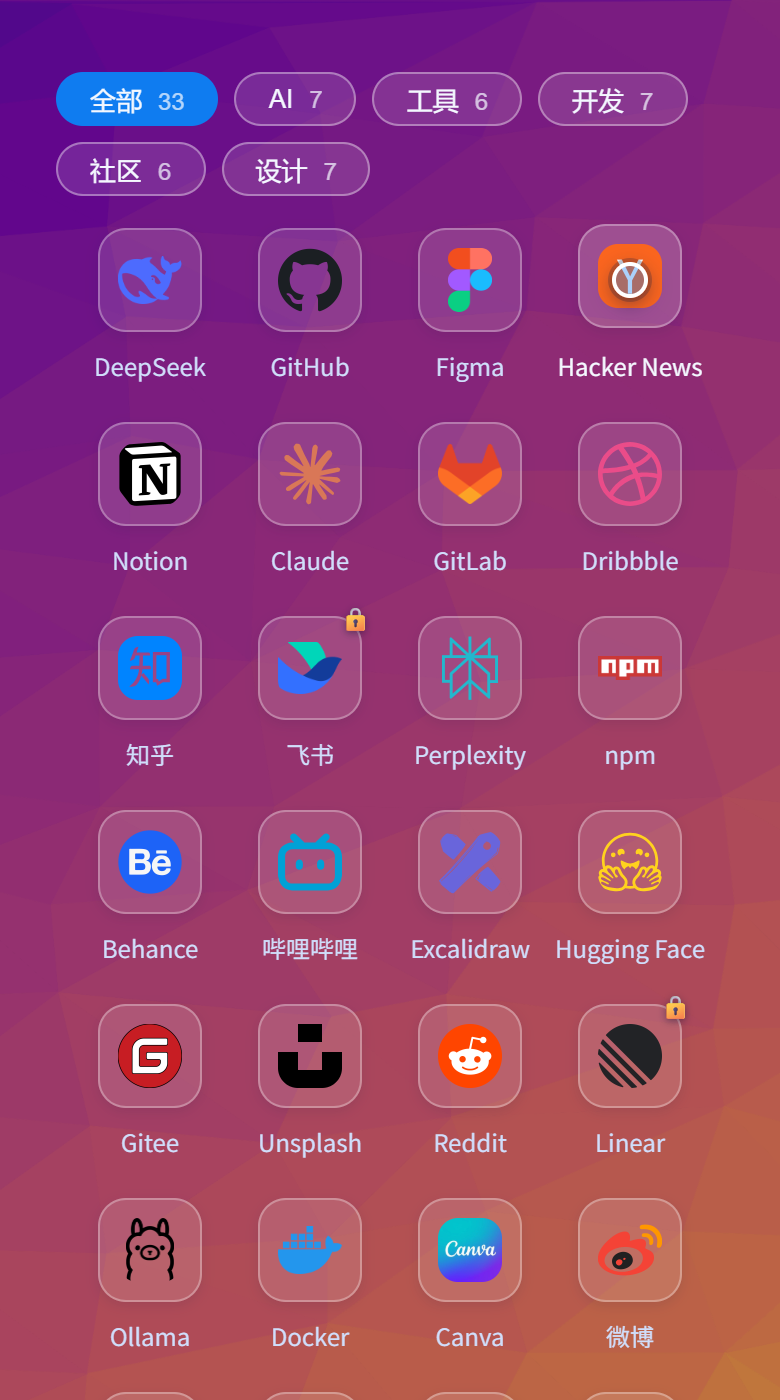
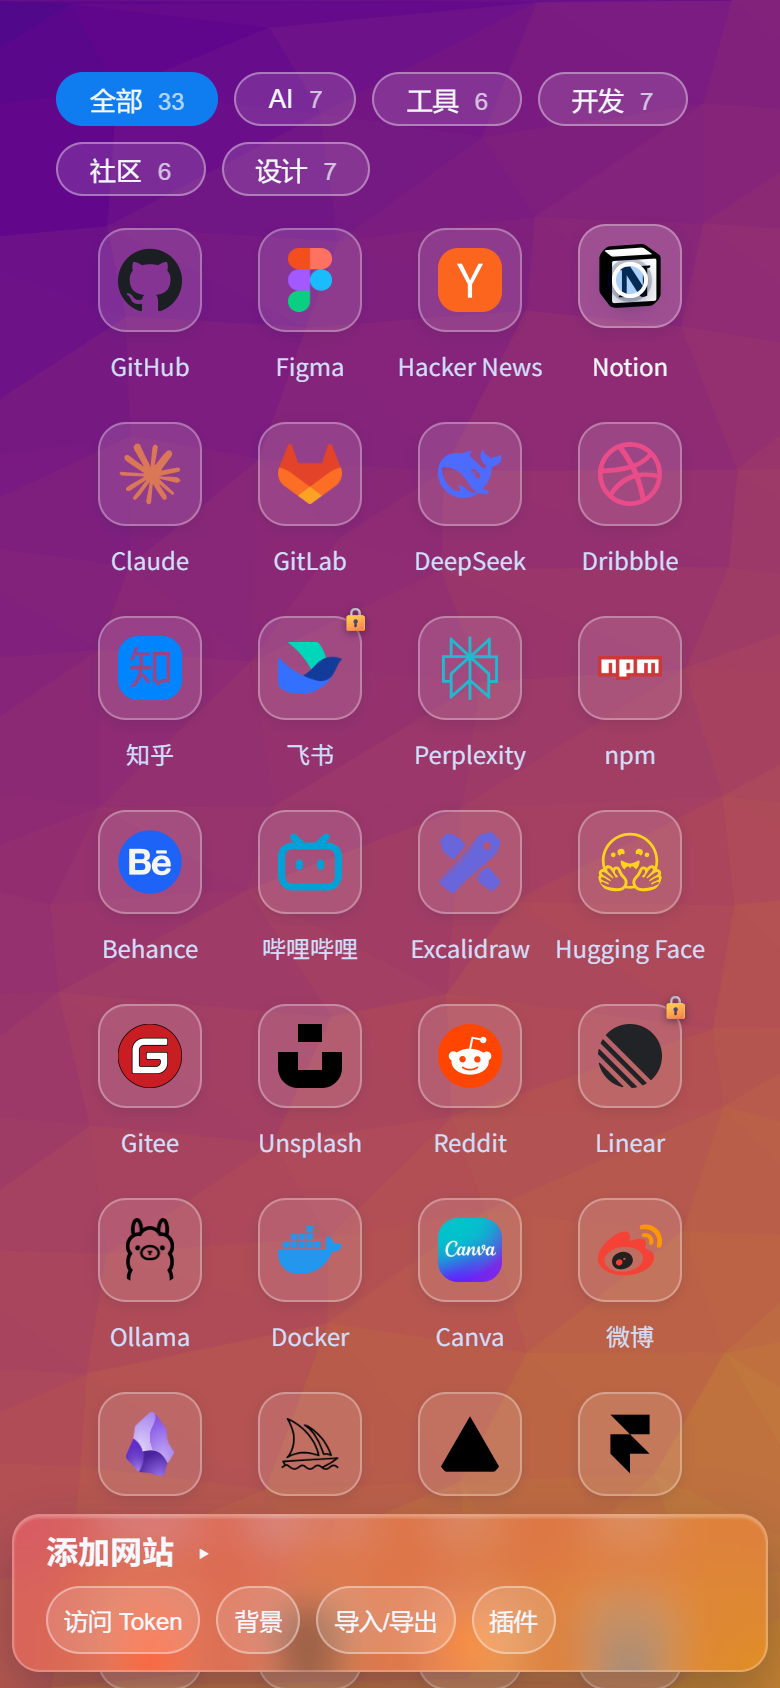
fix: 移动端停靠面板按钮溢出视口
窄屏收起态仍沿用 width: fit-content，工具组按 max-content 撑开，390px 下四个按钮
排到 x≈514 被裁掉。改为 ≤640px 一律占满可用宽度，并允许工具组收缩换行（flex 1 1 auto
+ min-width: 0），标题与按钮分行显示；桌面端媒体查询不生效，布局不变。

同时重拍 docs/images/mobile.png（现在包含修好的底栏）并同步 assets/。

diff --git a/assets/index.html b/assets/index.html
@@ -1614,7 +1614,11 @@
           gap: var(--sp-1);
         }
 
-        .add-panel {
+        /* 收起态默认是 width: fit-content，窄屏会把「访问 Token / 背景 / 导入导出 / 插件」
+           顶出面板右边界（390px 下按钮排到 x≈514）。窄屏一律占满可用宽度，
+           工具组换到标题下一行并从头排。 */
+        .add-panel,
+        .add-panel.collapsed {
           width: calc(100% - 12px);
           bottom: 8px;
           max-height: calc(100vh - 16px);
@@ -1624,10 +1628,13 @@
           align-items: center;
           flex-direction: row;
           flex-wrap: wrap;
+          row-gap: var(--sp-2);
         }
 
         .add-head-tools {
           margin-left: auto;
+          flex: 1 1 auto;
+          min-width: 0;
           gap: var(--sp-2);
         }
 

diff --git a/index.html b/index.html
@@ -1614,7 +1614,11 @@
           gap: var(--sp-1);
         }
 
-        .add-panel {
+        /* 收起态默认是 width: fit-content，窄屏会把「访问 Token / 背景 / 导入导出 / 插件」
+           顶出面板右边界（390px 下按钮排到 x≈514）。窄屏一律占满可用宽度，
+           工具组换到标题下一行并从头排。 */
+        .add-panel,
+        .add-panel.collapsed {
           width: calc(100% - 12px);
           bottom: 8px;
           max-height: calc(100vh - 16px);
@@ -1624,10 +1628,13 @@
           align-items: center;
           flex-direction: row;
           flex-wrap: wrap;
+          row-gap: var(--sp-2);
         }
 
         .add-head-tools {
           margin-left: auto;
+          flex: 1 1 auto;
+          min-width: 0;
           gap: var(--sp-2);
         }
 

diff --git a/scripts/capture-shots.py b/scripts/capture-shots.py
@@ -696,7 +696,7 @@ async def shot_s7(browser, out: Path) -> None:
     box = await page.locator(".nav-item").nth(3).bounding_box()
     await page.mouse.move(box["x"] + 40, box["y"] + 26, steps=10)
     await page.wait_for_timeout(600)
-    await page.screenshot(path=str(out / "mobile.png"), clip={"x": 0, "y": 0, "width": 390, "height": 700})
+    await page.screenshot(path=str(out / "mobile.png"))
     await ctx.close()
 
 
